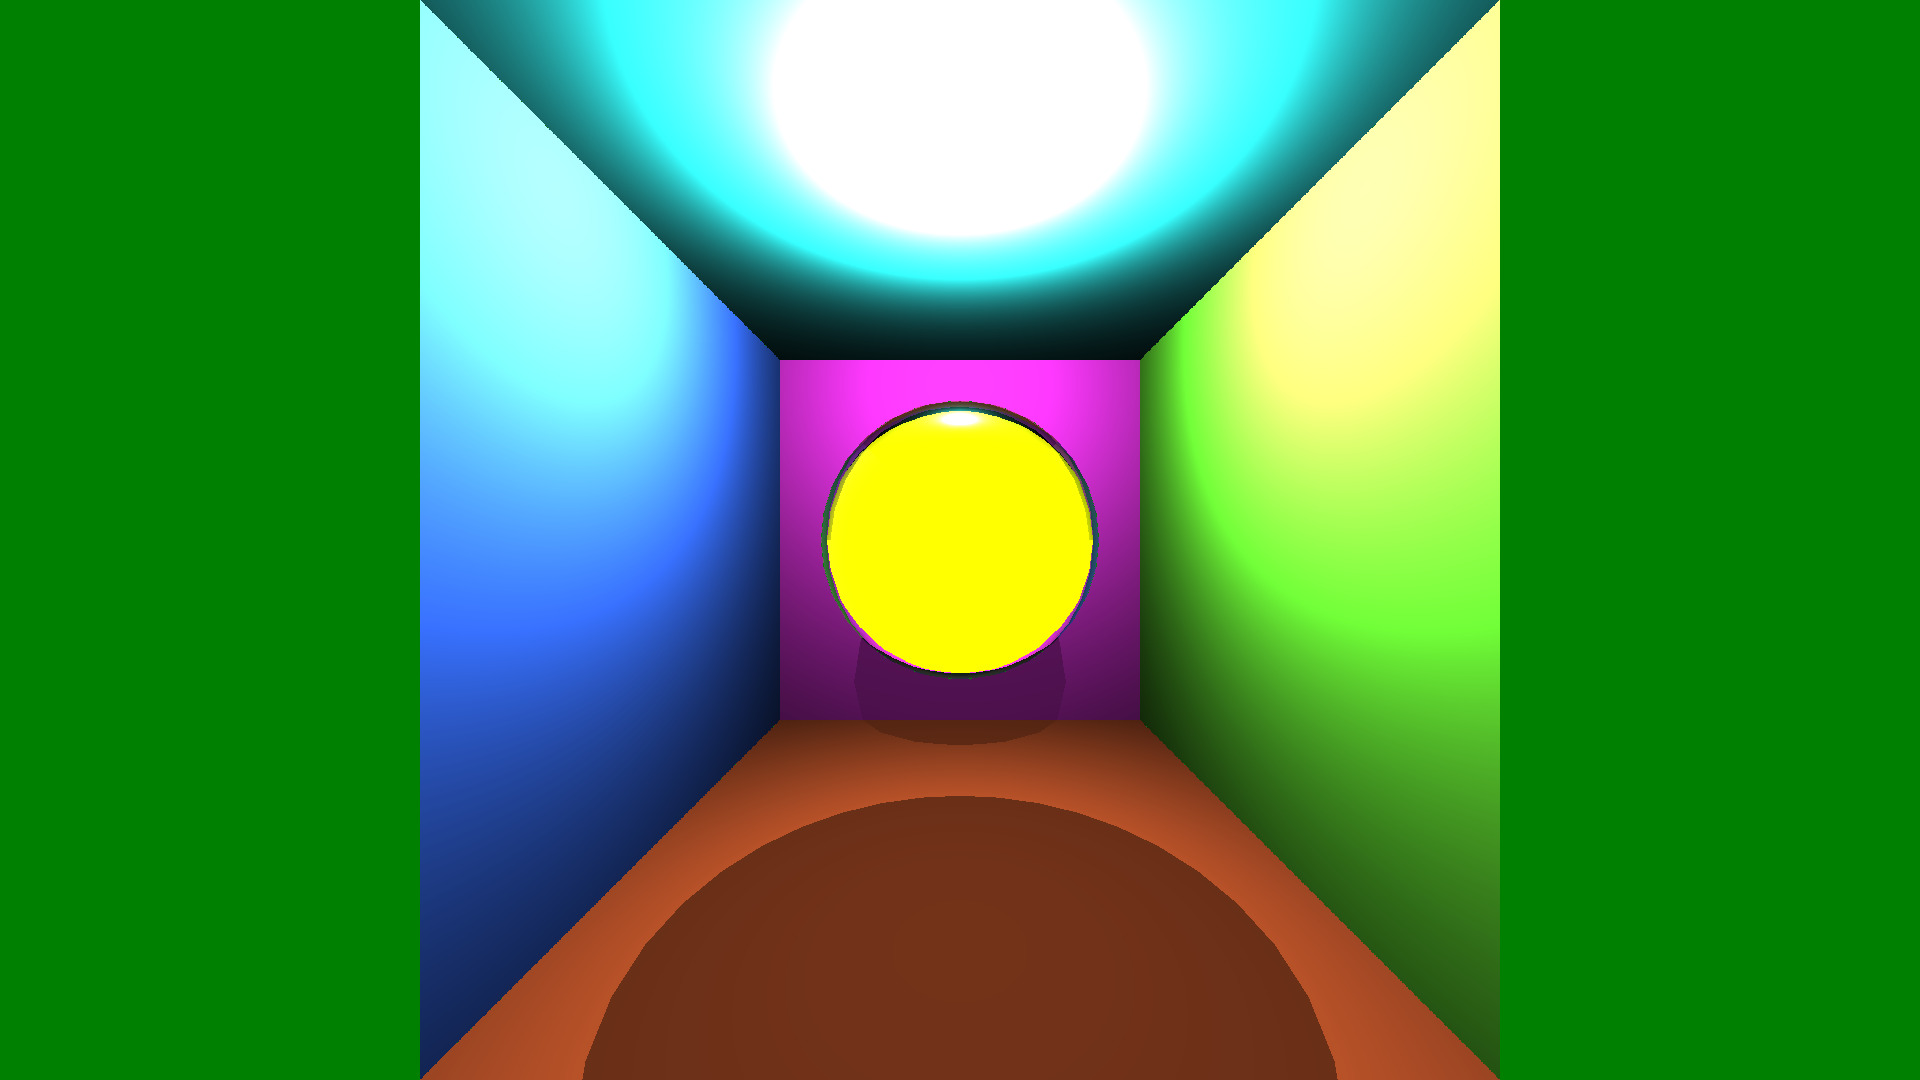
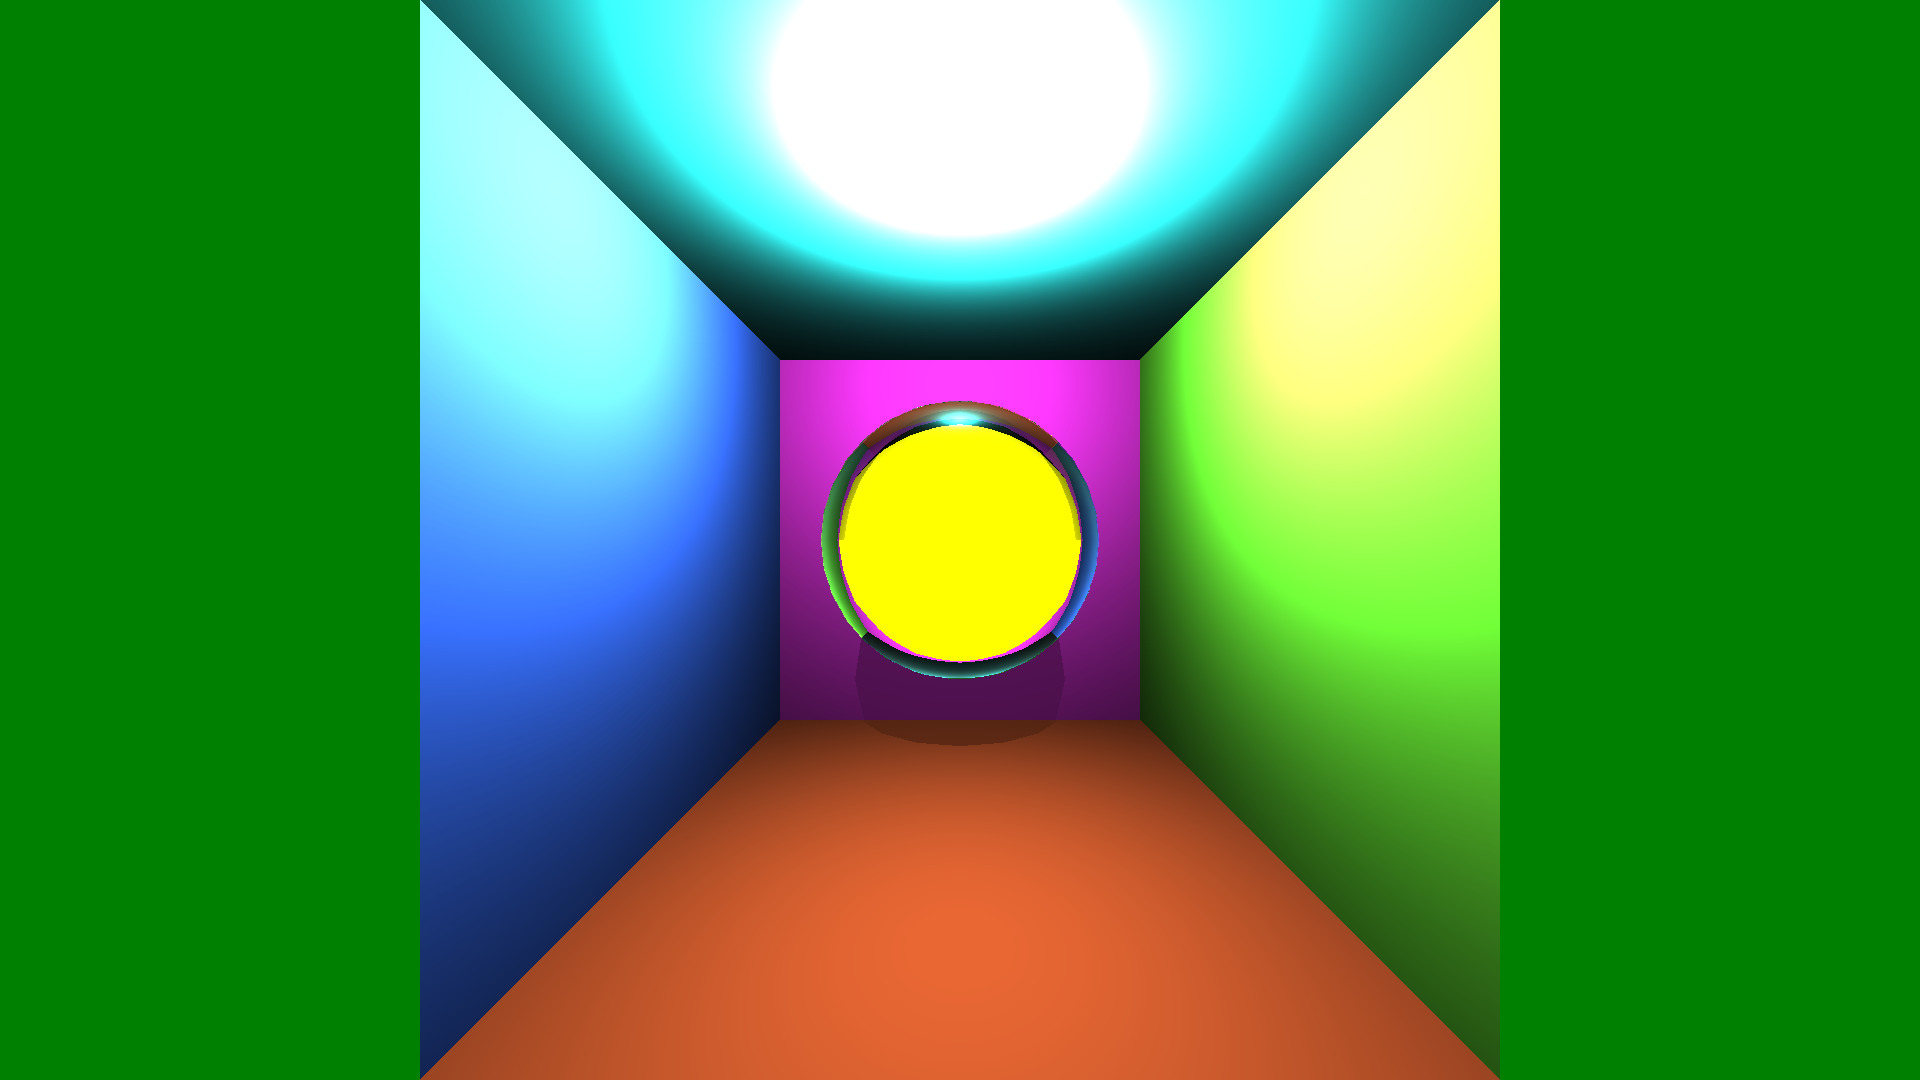
Updated constants and parallelized effectively.

diff --git a/The-Rest-Of-The-HWs/rest-of-hws/rest-of-hws/CRTRenderer.cpp b/The-Rest-Of-The-HWs/rest-of-hws/rest-of-hws/CRTRenderer.cpp
@@ -39,10 +39,16 @@ CRTImage CRTRenderer::render(const int maxNumberOfBuckets) const {
 	}
 
 	const int length = numVertical * numHorizontal;
-#pragma omp parallel for
-	for (int i = 0; i < length; i++) {
-		processSubimage(subImages[i]);
-	}
+
+	std::for_each(
+		std::execution::par,
+		subImages.begin(),
+		subImages.end(),
+		[&](CRTImage& bucket) {
+			processSubimage(bucket);
+		}
+	);
+
 
 	// At each pixel :
 	for (size_t i = 0; i < length; i++) {
@@ -94,7 +100,7 @@ CRTIntersectionData CRTRenderer::intersectRayWithAnObject(const CRTRay& ray,
 	const size_t len = triangles.size();
 	for (size_t i = 0; i < len; i++) {
 		const CRTTriangle& tri = triangles[i];
-		const CRTTriangle::retDataFromTriIntersect& intersectData = tri.intersect(ray, bestT);
+		const CRTTriangle::retDataFromTriangleIntersect& intersectData = tri.intersect(ray, bestT);
 		//	If P is on the left of the 3 edges and t > 0, we have an intersection
 		if (bestT > intersectData.t) {
 			// Get closest p (with least length)
@@ -284,12 +290,15 @@ bool CRTRenderer::hasIntersectRayWithObjectsInScene(const CRTRay& ray,
 	const size_t len = geometryObjects.size();
 	for (size_t i = 0; i < len; i++) {
 		const std::vector<CRTTriangle>& triangles = geometryObjects[i].getTriangles();
-		const size_t len = triangles.size();
-		for (size_t i = 0; i < len; i++) {
-			const CRTTriangle::retDataFromTriIntersect& intersectData =
-				triangles[i].intersect(ray, thresholdPminusLight);
+		const size_t lenTri = triangles.size();
+		for (size_t j = 0; j < lenTri; j++) {
+			const CRTTriangle::retDataFromTriangleIntersect& intersectData =
+				triangles[j].intersect(ray, thresholdPminusLight);
 			//	If P is on the left of the 3 edges and t > 0, we have an intersection
 			if (thresholdPminusLight > intersectData.t) {
+				if (geometryObjects[i].getMaterial().type == CRTMaterial::refractive) {
+					continue;
+				}
 				return true;
 			}
 		}

diff --git a/The-Rest-Of-The-HWs/rest-of-hws/rest-of-hws/constants.h b/The-Rest-Of-The-HWs/rest-of-hws/rest-of-hws/constants.h
@@ -4,13 +4,13 @@
 #include <cmath>
 const double M_PI = 3.14159265358979323846;
 
-const float SHADOW_BIAS = 0.0001f;
-const float REFLECTION_BIAS = 0.01f;
-const float REFRACTION_BIAS = 0.1f;
+const float SHADOW_BIAS = 1e-2f; // DO NOT TOUCH
+const float REFLECTION_BIAS = 1e-4f;
+const float REFRACTION_BIAS = 1e-3f;
 
-const int MAX_DEPTH = 5;
+const int MAX_DEPTH = 6;
 
-const float ROUNDING_ERROR_f32 = 0.000000000001f;
+const float ROUNDING_ERROR_f32 = 1e-5f;  // DO NOT TOUCH
 
 //! returns if a equals b, taking possible rounding errors into account
 inline bool equals(const float a, const float b, const float tolerance = ROUNDING_ERROR_f32) {

diff --git a/The-Rest-Of-The-HWs/rest-of-hws/rest-of-hws/CRTCamera.h b/The-Rest-Of-The-HWs/rest-of-hws/rest-of-hws/CRTCamera.h
@@ -25,10 +25,10 @@ public:
 	// A dolly shot moves the camera towards or away from the subject.
 	void dolly(const CRTVector& moveDir);
 
-	// Tilt camera movements direct a camera upward or downward.
+	// Tilt camera movements direct a camera upward or downward. Clamped in [-90, 90].
 	void tilt(const float degs);
 
-	// The camera pan directs a camera horizontally left or right.
+	// The camera pan directs a camera horizontally left or right. Clamped in (0, 180).
 	void pan(const float degs);
 
 	// The camera roll is a rotational camera movement that rotates the camera over its side on its long axis.

diff --git a/The-Rest-Of-The-HWs/rest-of-hws/rest-of-hws/CRTRenderer.h b/The-Rest-Of-The-HWs/rest-of-hws/rest-of-hws/CRTRenderer.h
@@ -2,9 +2,8 @@
 #define CRTRENDERER_H
 
 #include <vector>
-#include <string>
-
-#include <omp.h>
+#include <algorithm>
+#include <execution>
 
 #include "CRTRay.h"
 #include "CRTMesh.h"
@@ -47,10 +46,6 @@ private:
 	bool hasIntersectRayWithObjectsInScene(const CRTRay& ray,
 		const std::vector<CRTMesh>& geometryObjects,
 		const float thresholdPminusLight) const;
-
-	bool intersectSceneReducedRange(const CRTRay& ray,
-		const float thresholdPminusLight,
-		CRTColor& shadowColor) const;
 
 	CRTColor shadeRefractive(const CRTRay& ray,
 		const CRTIntersectionData& bestIntersectionPoint) const;

diff --git a/The-Rest-Of-The-HWs/rest-of-hws/rest-of-hws/CRTCamera.cpp b/The-Rest-Of-The-HWs/rest-of-hws/rest-of-hws/CRTCamera.cpp
@@ -43,12 +43,12 @@ void CRTCamera::dolly(const CRTVector& moveDir) {
 }
 
 void CRTCamera::tilt(const float degs) {
-	const CRTMatrix xRotation = makeRotationCRTMatrixX(degs);
+	const CRTMatrix xRotation = makeRotationCRTMatrixX(fminf(fmaxf(degs, -90.0f), 90.0f));
 	rotation = rotation * xRotation;
 }
 
 void CRTCamera::pan(const float degs) {
-	const CRTMatrix yRotation = makeRotationCRTMatrixY(degs);
+	const CRTMatrix yRotation = makeRotationCRTMatrixY(fminf(fmaxf(degs, ROUNDING_ERROR_f32), 180.0f - ROUNDING_ERROR_f32));
 	rotation = rotation * yRotation;
 }
 

diff --git a/The-Rest-Of-The-HWs/rest-of-hws/rest-of-hws/CRTTriangle.h b/The-Rest-Of-The-HWs/rest-of-hws/rest-of-hws/CRTTriangle.h
@@ -27,13 +27,13 @@ public:
 
 	float getArea() const;
 
-	struct retDataFromTriIntersect {
+	struct retDataFromTriangleIntersect {
 		CRTVector p;
 		CRTVector barycentricCoordinates;
 		float t;
 	};
 
-	retDataFromTriIntersect intersect(const CRTRay& ray, const float thresholdT = std::numeric_limits<float>::max()) const;
+	retDataFromTriangleIntersect intersect(const CRTRay& ray, const float thresholdT = std::numeric_limits<float>::max()) const;
 private:
 	void computeFaceNormal();
 

diff --git a/The-Rest-Of-The-HWs/rest-of-hws/rest-of-hws/CRTIntersectionData.h b/The-Rest-Of-The-HWs/rest-of-hws/rest-of-hws/CRTIntersectionData.h
@@ -20,7 +20,7 @@ struct CRTIntersectionData {
 	void set(const size_t& idxGeometryObject,
 		const size_t& idxTriangleI,
 		const CRTTriangle& triangle,
-		const CRTTriangle::retDataFromTriIntersect intersectData,
+		const CRTTriangle::retDataFromTriangleIntersect intersectData,
 		const CRTMesh& geometryObject,
 		const std::vector<CRTVector>& vertexNormals,
 		const std::vector<size_t>& faces

diff --git a/The-Rest-Of-The-HWs/rest-of-hws/rest-of-hws/main.cpp b/The-Rest-Of-The-HWs/rest-of-hws/rest-of-hws/main.cpp
@@ -9,5 +9,8 @@ int main() {
 		CRTImage image = renderer.render();
 		image.writeToPPMFile(name + idx);
 	}
+	renderer.loadCRTScene("testArtefacts.crtscene");
+	CRTImage image = renderer.render();
+	image.writeToPPMFile("testArtefacts");
 	return 0;
 }
